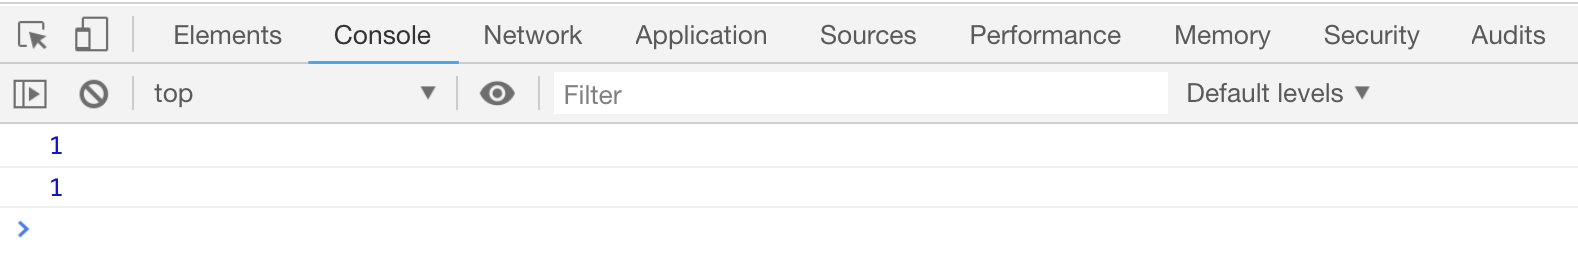
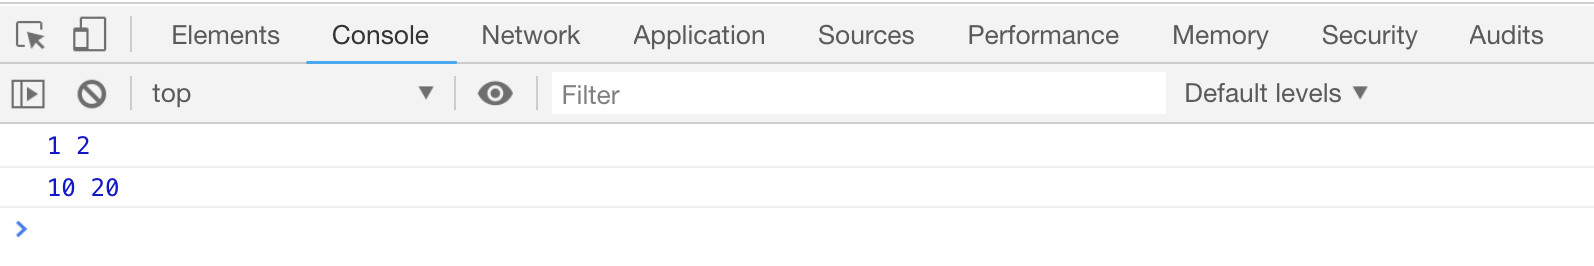
修改部分错误

diff --git a/JavaScript/20190310083234-JS中函数的参数/demo/demo01.html b/JavaScript/20190310083234-JS中函数的参数/demo/demo01.html
@@ -1,7 +1,7 @@
 <script>
-    function sum() {
-        console.log(1);
+    function sum(x, y) {
+        console.log(x, y);
     }
-    sum();
-    sum();
+    sum(1, 2);
+    sum(10, 20);
 </script>

diff --git a/JavaScript/20190310083234-JS中函数的参数/demo/demo02.html b/JavaScript/20190310083234-JS中函数的参数/demo/demo02.html
@@ -1,6 +1,6 @@
 <script>
     function sum(x, y) {
-        console.log(x, y);
+        console.log("x+y=" + (x + y), " y-x=" + (y - x));
     }
     sum(1, 2);
     sum(10, 20);

diff --git a/JavaScript/20190312090145-数组的声明和使用/demo/demo04.html b/JavaScript/20190312090145-数组的声明和使用/demo/demo04.html
@@ -1,0 +1,9 @@
+<script>
+    var arr = [
+        10,
+        function() {
+            console.log("hello world");
+        },
+    ];
+    arr[1]();
+</script>

diff --git a/JavaScript/20190310083234-JS中函数的参数/readme.md b/JavaScript/20190310083234-JS中函数的参数/readme.md
@@ -1,62 +1,4 @@
-# JS 中的函数
-
-当一段代码需要在多个位置"重复使用"的时候，可以使用函数把这段代码“封装”起来。比如之前“for 循环输出直角三角形”的案例，如果想更为方便、快捷的连续输出 2 个不同行数的三角形，就可以使用函数来实现：
-
-```js
-function triangle(sum) {
-    for (var m = 1; m <= sum; m++) {
-        for (var n = 1; n <= m; n++) {
-            document.write("💕");
-        }
-        document.write("<br/>");
-    }
-}
-triangle(5);
-triangle(10);
-```
-
-## 声明一个函数
-
-```js
-// 声明一个函数
-function 函数名() {
-    // 函数体...
-}
-```
-
-如上所示，关键字`function`用来声明后面是一个函数，函数名是必须有的，大括号内是需要被重复执行的代码块。要注意：
-
--   这里的`function`必须是全小写
--   函数名是区分大小写的，也就是说`getname`和`getName`是两个不同的函数。
--   和声明变量一样，函数不能使用 JS 已有的关键字作为函数名
-
-函数其实也是一个变量，上面的函数也可以这么写：
-
-```js
-var 函数名 = function() {
-    // 代码块
-};
-```
-
-## 执行函数
-
-可以使用`函数名()`的格式执行一次函数内的代码块，也可以说是函数被`调用`了一次。 函数每次被调用，函数中的代码块都会被执行一次。下面的案例中。函数`sum`被调用了 2 次，开发工具的控制台中会输出两次数字`1`
-
-```html
-<script>
-    function sum() {
-        console.log(1);
-    }
-    sum();
-    sum();
-</script>
-```
-
-[案例代码](./demo/demo01.html)
-
-![](./images/01.png)
-
-## 调用带参数的函数
+# 函数的参数
 
 调用函数的时候，可以向函数中传入某种值，这些值被称为**参数**，
 
@@ -75,9 +17,9 @@ var 函数名 = function() {
 </script>
 ```
 
-[案例代码](./demo/demo02.html)
+[案例代码](./demo/demo01.html)
 
-![](./images/02.png)
+![](./images/01.png)
 
 因此，我们可以让函数根据传入参数的不同。输出不同的结果
 
@@ -91,150 +33,6 @@ var 函数名 = function() {
 </script>
 ```
 
-[案例代码](./demo/demo03.html)
+[案例代码](./demo/demo02.html)
 
-![](./images/03.png)
-
-## 函数的返回值
-
-函数可以使用`return`关键字设置一个值，作为函数执行后的返回值，该返回值可以赋值给一个变量，保存下来。如果没有设置，默认返回`undefined`
-
-```html
-<script>
-    function sum() {
-        return 10;
-    }
-    var a = sum();
-    console.log("a: " + a);
-
-    function sum2() {}
-    var b = sum2();
-    console.log("b: " + b);
-</script>
-```
-
-[案例代码](./demo/demo04.html)
-
-![](./images/04.png)
-
-配合函数的参数，我们可以让函数返回两个数字的和：
-
-```html
-<script>
-    function sum(x, y) {
-        return x + y;
-    }
-    console.log(sum(1, 2));
-    console.log(sum(9, 10));
-</script>
-```
-
-[案例代码](./demo/demo05.html)
-
-![](./images/05.png)
-
-注意：
-
--   如果在函数中使用了`return`，会导致该函数内`return`后的语句不会被执行。也就是说函数被终止了，
--   `return`可以在使用的时候，不设置任何值，此时函数的返回值依然是`unefined`,
--   函数内部的`return`也不会影响函数外面 JS 语句的执行。
-
-```html
-<script>
-    function sum() {
-        console.log(1);
-        return;
-        console.log(2);
-    }
-    sum();
-    console.log(3);
-</script>
-```
-
-[案例代码](./demo/demo06.html)
-
-![](./images/06.png)
-
-## 函数的 arguments 属性
-
-通过`arguments`可以获取函数调用时传入的所有参数。
-
-```html
-<script>
-    function sum() {
-        console.log(arguments[0], arguments[1], arguments[2]);
-    }
-    sum(1, 2, 3);
-</script>
-```
-
-[案例代码](./demo/demo07.html)
-
-![](./images/07.png)
-
-## 在数组中定义函数和调用函数
-
-函数可以作为元素，写在数组里面：
-
-```html
-<script>
-    var arr = [
-        10,
-        function() {
-            return 11;
-        },
-    ];
-    // 调用函数;
-    var result = arr[1]();
-    console.log(result);
-</script>
-```
-
-[案例代码](./demo/demo08.html)
-
-![](./images/08.png)
-
-## 在对象中定义函数和调用函数
-
-```html
-<script>
-    var person = {
-        getName: function() {
-            return "lily";
-        },
-    };
-    // 调用函数;
-    var result = person.getName();
-    console.log(result);
-</script>
-```
-
-[案例代码](./demo/demo09.html)
-
-![](./images/09.png)
-
-## 调用函数案例
-
-```html
-<script>
-    var arr = [
-        10,
-        {
-            goods: [
-                "篮球",
-                "乒乓球",
-                function() {
-                    return "lily";
-                },
-            ],
-        },
-    ];
-    // 调用函数;
-    var result = arr[1].goods[2]();
-    console.log(result);
-</script>
-```
-
-[案例代码](./demo/demo10.html)
-
-![](./images/10.png)
+![](./images/02.png)

diff --git a/JavaScript/20190310083237-JS中函数的返回值/readme.md b/JavaScript/20190310083237-JS中函数的返回值/readme.md
@@ -16,9 +16,9 @@
 </script>
 ```
 
-[案例代码](./demo/demo04.html)
+[案例代码](./demo/demo01.html)
 
-![](./images/04.png)
+![](./images/01.png)
 
 配合函数的参数，我们可以让函数返回两个数字的和：
 
@@ -32,9 +32,9 @@
 </script>
 ```
 
-[案例代码](./demo/demo05.html)
+[案例代码](./demo/demo02.html)
 
-![](./images/05.png)
+![](./images/02.png)
 
 注意：
 
@@ -54,6 +54,6 @@
 </script>
 ```
 
-[案例代码](./demo/demo06.html)
+[案例代码](./demo/demo03.html)
 
-![](./images/06.png)
+![](./images/03.png)

diff --git a/JavaScript/20190312090145-数组的声明和使用/readme.md b/JavaScript/20190312090145-数组的声明和使用/readme.md
@@ -88,3 +88,21 @@ var arr2 = [[[1, 2, 3], [4, 5, 6]], [[1, 2, 3], [4, 5, 6]]]; //三维数组
 [案例代码](./demo/demo03.html)
 
 ![](./images/03.png)
+
+## 在数组中使用函数
+
+```html
+<script>
+    var arr = [
+        10,
+        function() {
+            console.log("hello world");
+        },
+    ];
+    arr[1]();
+</script>
+```
+
+[案例代码](./demo/demo04.html)
+
+![](./images/04.png)

diff --git a/JavaScript/20190310083235-JS中函数的arguments/readme.md b/JavaScript/20190310083235-JS中函数的arguments/readme.md
@@ -1,0 +1,16 @@
+# 函数的 arguments 属性
+
+通过`arguments`可以获取函数调用时传入的所有参数。
+
+```html
+<script>
+    function sum() {
+        console.log(arguments[0], arguments[1], arguments[2]);
+    }
+    sum(1, 2, 3);
+</script>
+```
+
+[案例代码](./demo/demo01.html)
+
+![](./images/01.png)
